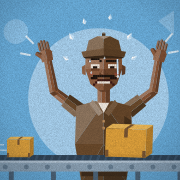
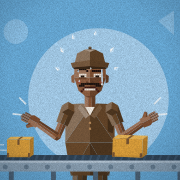
Pose the Preload worker in an I-don't-know shrug
Shoulders hiked up, elbows bent at his sides and palms out to the
sides; reframe the app icon so both hands fit.

Claude-Session: https://claude.ai/code/session_01WatR7HZs1msEFRyDMCsuWq

diff --git a/PreloadGame-Assets/src/generate.js b/PreloadGame-Assets/src/generate.js
@@ -132,19 +132,8 @@ function worker() {
     s += poly([[x - 40, 730], [x + 40, 730], [x + 44, 760], [x - 44, 760]], shade(C.boot, 1.4));
     s += poly([[x - 44, 760], [x + 44, 760], [x + 50, 784], [x - 56, 784]], shade(C.boot, 1.0));
   }
-  // arms (behind the torso at the shoulder)
-  const arms = [
-    { sh: [-112, 46], el: [-232, -46], wr: [-262, -196], ang: -14 },
-    { sh: [112, 46], el: [232, -46], wr: [256, -196], ang: 14 },
-  ];
-  for (const a of arms) {
-    const mid = [a.sh[0] + (a.el[0] - a.sh[0]) * 0.55, a.sh[1] + (a.el[1] - a.sh[1]) * 0.55];
-    s += prism(mid, a.el, 46, sk, 42) + joint(a.el, 22, sk) + prism(a.el, a.wr, 42, sk, 36);
-    s += prism(a.sh, mid, 74, sh, 66);
-    s += blockHand(a.wr[0], a.wr[1] + 6, a.ang, sk);
-  }
   // torso: faceted chest and belly, lit from the left
-  const P = { ls: [-128, 24], rs: [128, 24], ln: [-38, 0], rn: [38, 0], c0: [0, 8], lm: [-134, 200], rm: [134, 200], c1: [0, 200], lw: [-104, 380], rw: [104, 380], c2: [0, 380] };
+  const P = { ls: [-132, -6], rs: [132, -6], ln: [-38, -10], rn: [38, -10], c0: [0, 8], lm: [-134, 200], rm: [134, 200], c1: [0, 200], lw: [-104, 380], rw: [104, 380], c2: [0, 380] };
   s += poly([P.ls, P.ln, P.c0, P.lm], shade(sh, 1.25)) + poly([P.c0, P.c1, P.lm], shade(sh, 1.08));
   s += poly([P.lm, P.c1, P.lw], shade(sh, 1.0)) + poly([P.c1, P.c2, P.lw], shade(sh, 0.9));
   s += poly([P.rs, P.rn, P.c0, P.rm], shade(sh, 0.95)) + poly([P.c0, P.c1, P.rm], shade(sh, 0.82));
@@ -155,6 +144,17 @@ function worker() {
   s += poly([[-30, 0], [30, 0], [0, 56]], C.tee);
   s += poly([[-52, -6], [-4, 54], [-24, 70], [-66, 14]], shade(sh, 1.4)) + poly([[52, -6], [4, 54], [24, 70], [66, 14]], shade(sh, 1.1));
   s += poly([[-6, 88], [6, 88], [6, 100], [-6, 100]], C.button) + poly([[-6, 120], [6, 120], [6, 132], [-6, 132]], C.button);
+  // shrug: shoulders hiked up, elbows bent at his sides, palms out like 🤷
+  const arms = [
+    { sh: [-118, 18], el: [-180, 168], wr: [-284, 96], ang: -62 },
+    { sh: [118, 18], el: [180, 168], wr: [284, 96], ang: 62 },
+  ];
+  for (const a of arms) {
+    const mid = [a.sh[0] + (a.el[0] - a.sh[0]) * 0.55, a.sh[1] + (a.el[1] - a.sh[1]) * 0.55];
+    s += prism(mid, a.el, 46, sk, 42) + joint(a.el, 23, sk) + prism(a.el, a.wr, 42, sk, 36);
+    s += prism(a.sh, mid, 76, sh, 66) + joint(a.sh, 38, sh);
+    s += blockHand(a.wr[0], a.wr[1], a.ang, sk);
+  }
   // neck
   s += prism([0, -70], [0, 8], 58, sk);
   // head: chamfered block, faceted
@@ -180,7 +180,7 @@ function worker() {
   s += polyDrop(-150, -300, 0.9, -30) + polyDrop(-175, -200, 0.8, -60) + polyDrop(-90, -370, 0.75, -15);
   s += polyDrop(120, -300, 0.9, 30) + polyDrop(140, -200, 0.75, 60) + polyDrop(30, -390, 0.7, 10);
   // frustration marks
-  for (const [x1, y1, x2, y2] of [[-330, -270, -360, -300], [-345, -215, -385, -222], [290, -280, 318, -312], [305, -225, 345, -232]])
+  for (const [x1, y1, x2, y2] of [[-350, -10, -380, -40], [-375, 50, -415, 46], [350, -10, 380, -40], [375, 50, 415, 46]])
     s += `<path d="M${x1} ${y1} L${x2} ${y2}" stroke="#ffffff" stroke-width="9" stroke-linecap="square" opacity=".75"/>`;
   return s + '</g>';
 }
@@ -263,9 +263,9 @@ function appIcon() {
   s += `<rect width="${S}" height="${S}" fill="${C.bg}"/>`;
   s += `<circle cx="560" cy="560" r="400" fill="${C.blob}"/>`;
   s += `<circle cx="90" cy="180" r="70" fill="${C.blobSoft}"/><path d="M900 120 L990 60 L990 200 Z" fill="${C.blobSoft}"/>`;
-  s += `<g transform="translate(590 575) scale(1.22)">${worker()}</g>`;
+  s += `<g transform="translate(512 600) scale(1.05)">${worker()}</g>`;
   s += conveyor(-20, S + 20, 900, 1100);
-  s += speed(70, 882, 110, 2) + box(40, 894, 130, 100) + box(600, 894, 230, 160, { rot: 2 });
+  s += speed(70, 882, 110, 2) + box(40, 894, 130, 100) + box(640, 894, 170, 105, { rot: 2 });
   s += grain(S, S, 0.14);
   return s + '</svg>';
 }
